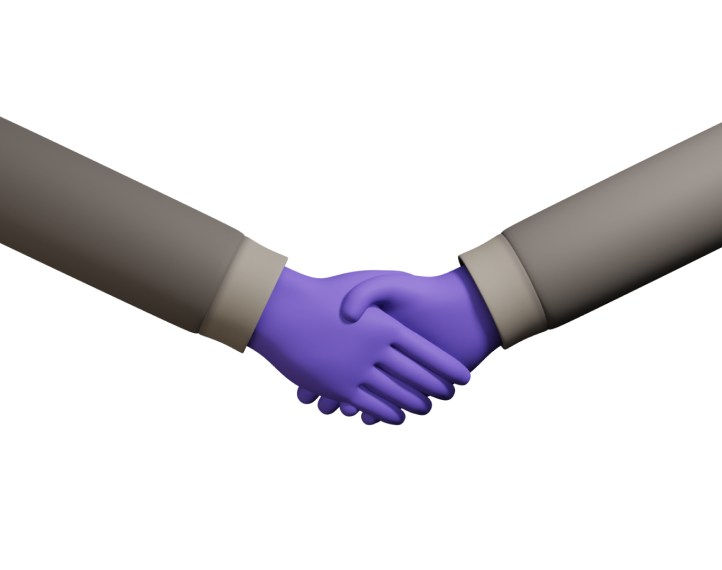
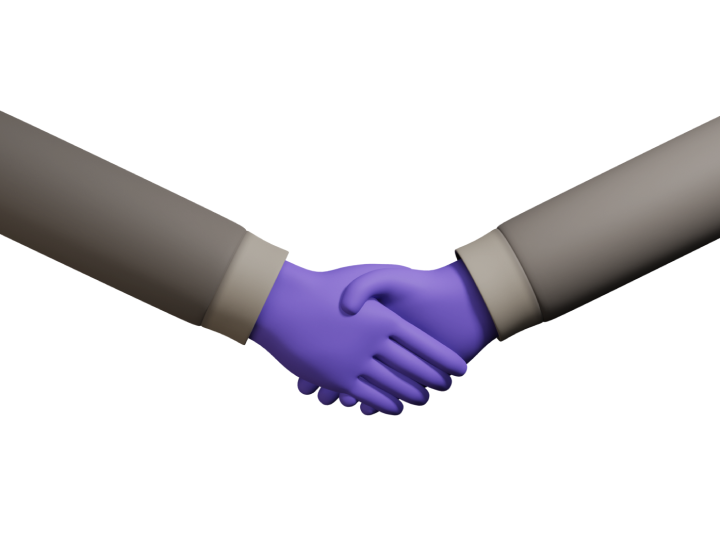
Aplicando cambios al estilo de la pagina contact, cambiando imagenes y rediseñando barra de navegador

diff --git a/html/contact.html b/html/contact.html
@@ -28,7 +28,7 @@
 					<button class="hamburger-button">
 						<span class="hamburger-icon"></span>
 					</button>
-					<ul class="menu-list bg-warning-subtle nav-tabs border border-0">
+					<ul class="menu-list nav-tabs border border-0">
 						<li class="nav-item"><a class="nav-link link_text border border-0" href="../index.html">Inicio</a></li>
 						<li class="nav-item"><a class="nav-link link_text border border-0" href="./about.html">About</a></li>
 						<li class="nav-item"><a class="nav-link link_text border border-0" href="./contact.html">Contact</a></li>
@@ -36,13 +36,13 @@
 					</ul>
 				</div>
 				<ul class="nav nav-tabs">
-					<li class="nav-item d-none d-sm-block d-md-block d-lg-block d-xl-block d-xxl-block">
+					<li class="nav-item d-none d-md-block d-lg-block d-xl-block d-xxl-block">
 						<a class="nav-link link_text" href="./about.html">About</a>
 					</li>
-					<li class="nav-item d-none d-sm-block d-md-block d-lg-block d-xl-block d-xxl-block">
+					<li class="nav-item d-none d-md-block d-lg-block d-xl-block d-xxl-block">
 						<a class="nav-link link_text active" aria-current="page" href="./contact.html">Contact</a>
 					</li>
-					<li class="nav-item d-none d-sm-block d-md-block d-lg-block d-xl-block d-xxl-block">
+					<li class="nav-item d-none d-md-block d-lg-block d-xl-block d-xxl-block">
 						<a class="nav-link link_text" href="./serv1.html">Services</a>
 					</li>
 				</ul>
@@ -59,21 +59,21 @@
 							<form>
 								<div class="mb-3">
 									<label for="nombre" class="form-label">Name</label>
-									<input type="text" class="form-control" id="nombre" placeholder="What is your name?" />
+									<input type="text" class="form-control bg-form text-center" id="nombre" placeholder="What is your name?" />
 								</div>
 								<div class="mb-3">
 									<label for="email" class="form-label">Email</label>
-									<input type="email" class="form-control" id="email" placeholder="You can use your email here!" />
+									<input type="email" class="form-control bg-form text-center" id="email" placeholder="You can use your email here!" />
 								</div>
 								<div class="mb-3">
 									<label for="mensaje" class="form-label">Message</label>
-									<textarea class="form-control" id="mensaje" rows="5" placeholder="Please leave us a message"></textarea>
+									<textarea class="form-control bg-form text-center" id="mensaje" rows="5" placeholder="Please leave us a message"></textarea>
 								</div>
-								<button type="submit" class="btn btn-secondary btn-lg">Send</button>
+								<button type="submit" class="btn border border-bottom"><span class="btn-text">Send</span></button>
 							</form>
 						</div>
-						<div class="col d-none d-lg-block">
-							<img src="../IMG/contact_manos.png" alt="ManosRockandRoll" class="img-fluid" />
+						<div class="col d-none d-lg-block img_manos_señalando">
+							<img src="../IMG/contact_manos.png" alt="ManosSeñalando" class="img-fluid" />
 						</div>
 					</div>
 				</div>

diff --git a/Css/app.css b/Css/app.css
@@ -64,7 +64,7 @@ img {
     font-size: 3rem !important;
   }
 }
-@media screen and (max-width: 767.11px) {
+@media screen and (max-width: 767px) {
   body {
     display: flex;
     flex-direction: column;
@@ -100,7 +100,7 @@ img {
     color: #000;
   }
 }
-@media screen and (max-width: 767.11px) {
+@media screen and (max-width: 767px) {
   .navegacion {
     font-size: 2rem;
     display: flex;
@@ -117,21 +117,44 @@ a:visited {
 }
 
 .about {
-  background-image: url("../IMG/bg_about.png");
-  background-size: cover;
-  background-repeat: no-repeat;
-  background-position: center;
-  overflow: hidden;
+  background: linear-gradient(to right, #fdfbcd 50%, #d0746e 50%);
 }
 
 .contact {
-  background: linear-gradient(to right, #9b6a6c 50%, #fdfbcd 50%);
+  background: linear-gradient(90deg, rgb(118, 201, 255), #fdfbcd);
 }
 
 form {
   width: 100%;
   padding: 9px;
-  font-size: 1.5rem;
+}
+form .btn {
+  width: 100%;
+  background: radial-gradient(rgb(118, 201, 255) 10%, #fdfbcd 90%);
+}
+form .btn .btn-text {
+  font-size: 3rem;
+}
+@media screen and (max-width: 991.11px) {
+  form .btn .btn-text {
+    font-size: 1.5rem;
+  }
+}
+@media screen and (max-width: 991.11px) {
+  form {
+    font-size: 1.5rem;
+  }
+}
+form .bg-form {
+  border: 2rem;
+  background: #fdfbcd;
+  font-size: 3rem;
+  max-height: 50%;
+}
+@media screen and (max-width: 991.11px) {
+  form .bg-form {
+    font-size: 1.5rem;
+  }
 }
 
 .footer__texto {
@@ -148,7 +171,7 @@ form {
   display: flex;
   justify-content: center;
   align-items: center;
-  background: linear-gradient(45deg, rgb(118, 201, 255), rgb(247, 255, 222));
+  background: linear-gradient(45deg, rgb(118, 201, 255), #fdfbcd);
 }
 
 .penguin-container {
@@ -411,7 +434,7 @@ form {
   margin-top: 0.5rem;
   margin-right: 5rem;
 }
-@media screen and (max-width: 767.11px) {
+@media screen and (max-width: 767px) {
   .contenedor__titulo {
     text-align: center;
   }
@@ -492,7 +515,7 @@ form {
   display: block;
 }
 
-@media screen and (max-width: 767.11px) {
+@media screen and (max-width: 767px) {
   .mobile-menu {
     display: block;
     font-size: 1.6rem;

diff --git a/html/about.html b/html/about.html
@@ -36,13 +36,13 @@
 					</ul>
 				</div>
 				<ul class="nav nav-tabs">
-					<li class="nav-item d-none d-sm-block d-md-block d-lg-block d-xl-block d-xxl-block">
+					<li class="nav-item d-none d-md-block d-lg-block d-xl-block d-xxl-block">
 						<a class="nav-link link_text active" aria-current="page" href="./about.html">About</a>
 					</li>
-					<li class="nav-item d-none d-sm-block d-md-block d-lg-block d-xl-block d-xxl-block">
+					<li class="nav-item d-none d-md-block d-lg-block d-xl-block d-xxl-block">
 						<a class="nav-link link_text" href="./contact.html">Contact</a>
 					</li>
-					<li class="nav-item d-none d-sm-block d-md-block d-lg-block d-xl-block d-xxl-block">
+					<li class="nav-item d-none d-md-block d-lg-block d-xl-block d-xxl-block">
 						<a class="nav-link link_text" href="./serv1.html">Services</a>
 					</li>
 				</ul>

diff --git a/html/serv1.html b/html/serv1.html
@@ -36,13 +36,13 @@
 					</ul>
 				</div>
 				<ul class="nav nav-tabs">
-					<li class="nav-item d-none d-sm-block d-md-block d-lg-block d-xl-block d-xxl-block">
+					<li class="nav-item d-none d-md-block d-lg-block d-xl-block d-xxl-block">
 						<a class="nav-link link_text" href="./about.html">About</a>
 					</li>
-					<li class="nav-item d-none d-sm-block d-md-block d-lg-block d-xl-block d-xxl-block">
+					<li class="nav-item d-none d-md-block d-lg-block d-xl-block d-xxl-block">
 						<a class="nav-link link_text" href="./contact.html">Contact</a>
 					</li>
-					<li class="nav-item d-none d-sm-block d-md-block d-lg-block d-xl-block d-xxl-block">
+					<li class="nav-item d-none d-md-block d-lg-block d-xl-block d-xxl-block">
 						<a class="nav-link link_text active" aria-current="page" href="./serv1.html">Services</a>
 					</li>
 				</ul>

diff --git a/html/serv2.html b/html/serv2.html
@@ -36,13 +36,13 @@
 					</ul>
 				</div>
 				<ul class="nav nav-tabs">
-					<li class="nav-item d-none d-sm-block d-md-block d-lg-block d-xl-block d-xxl-block">
+					<li class="nav-item d-none d-md-block d-lg-block d-xl-block d-xxl-block">
 						<a class="nav-link link_text" href="./about.html">About</a>
 					</li>
-					<li class="nav-item d-none d-sm-block d-md-block d-lg-block d-xl-block d-xxl-block">
+					<li class="nav-item d-none d-md-block d-lg-block d-xl-block d-xxl-block">
 						<a class="nav-link link_text" href="./contact.html">Contact</a>
 					</li>
-					<li class="nav-item d-none d-sm-block d-md-block d-lg-block d-xl-block d-xxl-block">
+					<li class="nav-item d-none d-md-block d-lg-block d-xl-block d-xxl-block">
 						<a class="nav-link link_text active" aria-current="page" href="./serv2.html">Services</a>
 					</li>
 				</ul>

diff --git a/html/serv3.html b/html/serv3.html
@@ -36,13 +36,13 @@
 					</ul>
 				</div>
 				<ul class="nav nav-tabs">
-					<li class="nav-item d-none d-sm-block d-md-block d-lg-block d-xl-block d-xxl-block">
+					<li class="nav-item d-none d-md-block d-lg-block d-xl-block d-xxl-block">
 						<a class="nav-link link_text" href="./about.html">About</a>
 					</li>
-					<li class="nav-item d-none d-sm-block d-md-block d-lg-block d-xl-block d-xxl-block">
+					<li class="nav-item d-none d-md-block d-lg-block d-xl-block d-xxl-block">
 						<a class="nav-link link_text" href="./contact.html">Contact</a>
 					</li>
-					<li class="nav-item d-none d-sm-block d-md-block d-lg-block d-xl-block d-xxl-block">
+					<li class="nav-item d-none d-md-block d-lg-block d-xl-block d-xxl-block">
 						<a class="nav-link link_text active" aria-current="page" href="./serv1.html">Services</a>
 					</li>
 				</ul>

diff --git a/SCSS/layout/_contacto.scss b/SCSS/layout/_contacto.scss
@@ -2,10 +2,33 @@
 @use "../base/mixins" as m;
 
 .contact {
-	background: linear-gradient(to right, v.$marron 50%, v.$crema 50%);
+	//background: linear-gradient(to right, v.$marron 50%, v.$crema 50%);
+	background: linear-gradient(90deg, rgb(118, 201, 255), v.$crema);
 }
 form {
 	width: 100%;
 	padding: 9px;
-	font-size: 1.5rem;
+	.btn {
+		width: 100%;
+		background: radial-gradient(rgb(118, 201, 255) 10%, v.$crema 90%);
+		.btn-text {
+			font-size: 3rem;
+			@media screen and (max-width: 991.11px) {
+				font-size: 1.5rem;
+			}
+		}
+	}
+	@media screen and (max-width: 991.11px) {
+		font-size: 1.5rem;
+	}
+	.bg-form {
+		border: 2rem;
+		background: v.$crema;
+		font-size: 3rem;
+		max-height: 50%;
+
+		@media screen and (max-width: 991.11px) {
+			font-size: 1.5rem;
+		}
+	}
 }

diff --git a/SCSS/layout/_about.scss b/SCSS/layout/_about.scss
@@ -1,9 +1,5 @@
 @use "../base/variables" as v;
 @use "../base/mixins" as m;
 .about {
-	background-image: url("../IMG/bg_about.png");
-	background-size: cover;
-	background-repeat: no-repeat;
-	background-position: center;
-	overflow: hidden;
+	background: linear-gradient(to right, v.$crema 50%, #d0746e 50%);
 }

diff --git a/SCSS/layout/_penguin.scss b/SCSS/layout/_penguin.scss
@@ -6,7 +6,7 @@
 	@include m.sizes(100%, 100vh);
 	overflow: hidden;
 	@include m.flex-center;
-	background: linear-gradient(45deg, rgb(118, 201, 255), rgb(247, 255, 222));
+	background: linear-gradient(45deg, rgb(118, 201, 255), v.$crema);
 }
 
 .penguin-container {

diff --git a/SCSS/base/_variables.scss b/SCSS/base/_variables.scss
@@ -18,4 +18,4 @@ $marron: #9b6a6c;
 
 //Tamaño de las Media Queries
 $tablet: 768px;
-$telefono: 767.11px;
+$telefono: 767px;
